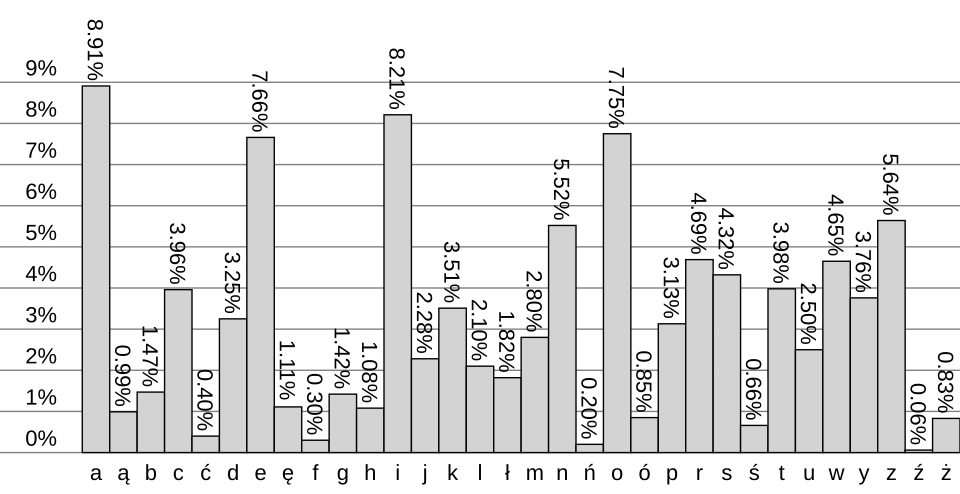
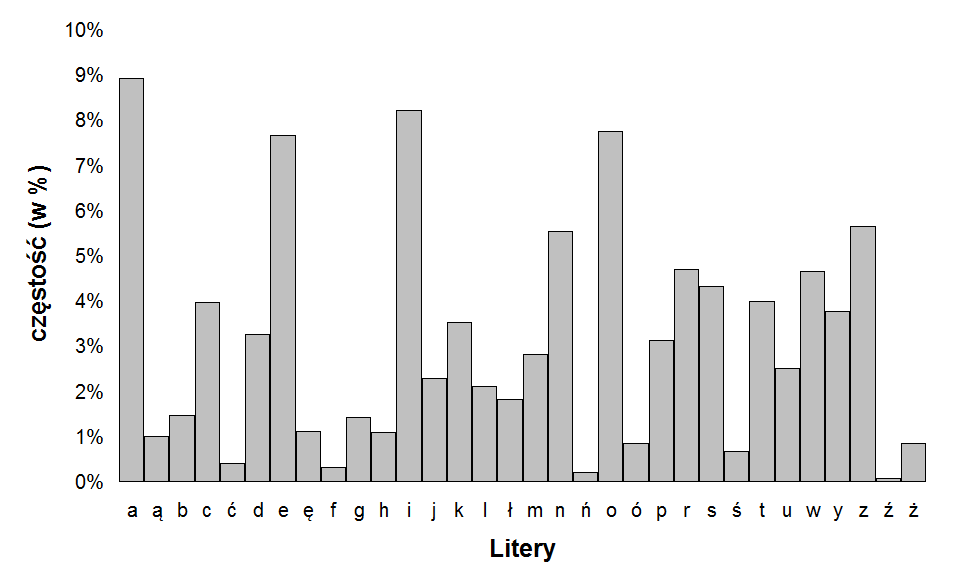
poprawiono Cultists Prophecy

diff --git a/2026/Cryptography/Cultists Prophecy (100p)/Writeup.md b/2026/Cryptography/Cultists Prophecy (100p)/Writeup.md
@@ -82,6 +82,7 @@ ALTERNATYWNE ROZWIAZANIE:
 wiedzac ze jest to szyfr klasyczny mozemy zliczac znaki ktore wystepuja najczesciej i "bruteforcowac"
 dla kolejnych len(klucz) dzielac na grupy w zaleznosci od wyniku `pozycja_znaku` mod `klucz`
 ![](Polish_letters_frequencies.png)
-W przypadku gdybysmy nie znali prefixu flagi, w taki sposob trzeba bylo by to zadanie rozwiazac
+
+W przypadku gdybysmy nie znali prefixu flagi, w taki sposob trzeba bylo by to zadanie rozwiazac.
 
 Flaga to : `PJATK{inn0wi3rcy_m4j4_r4cj3_kul7y_zyj4_w_bl3dzi3}` 
